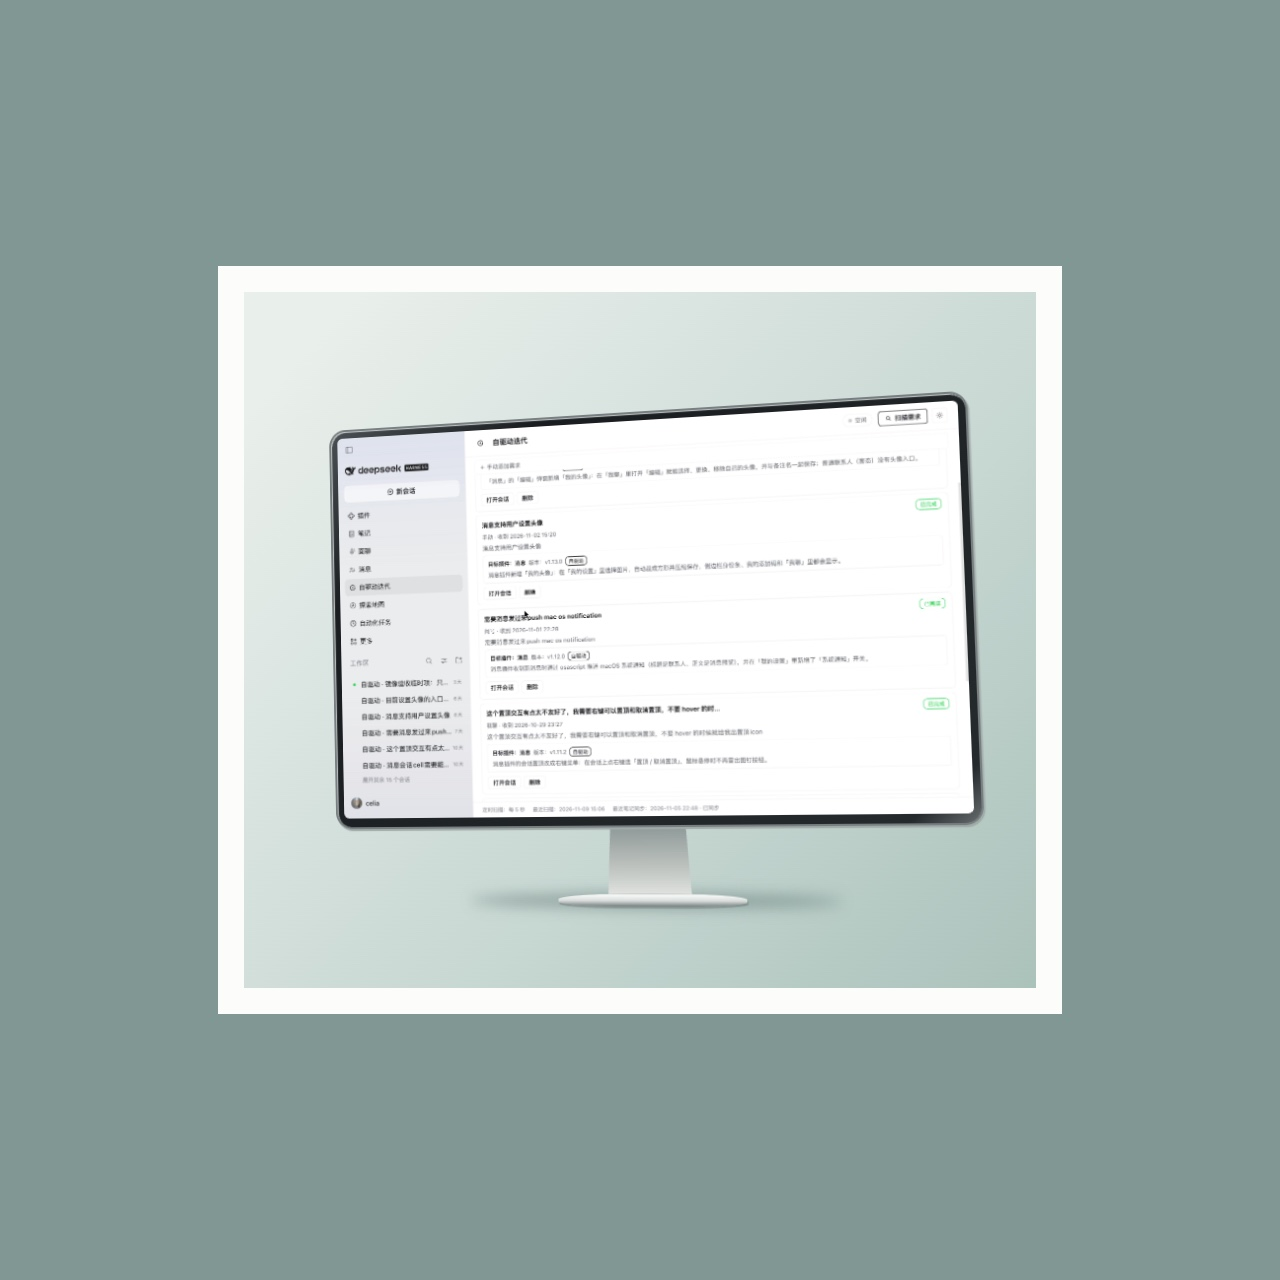
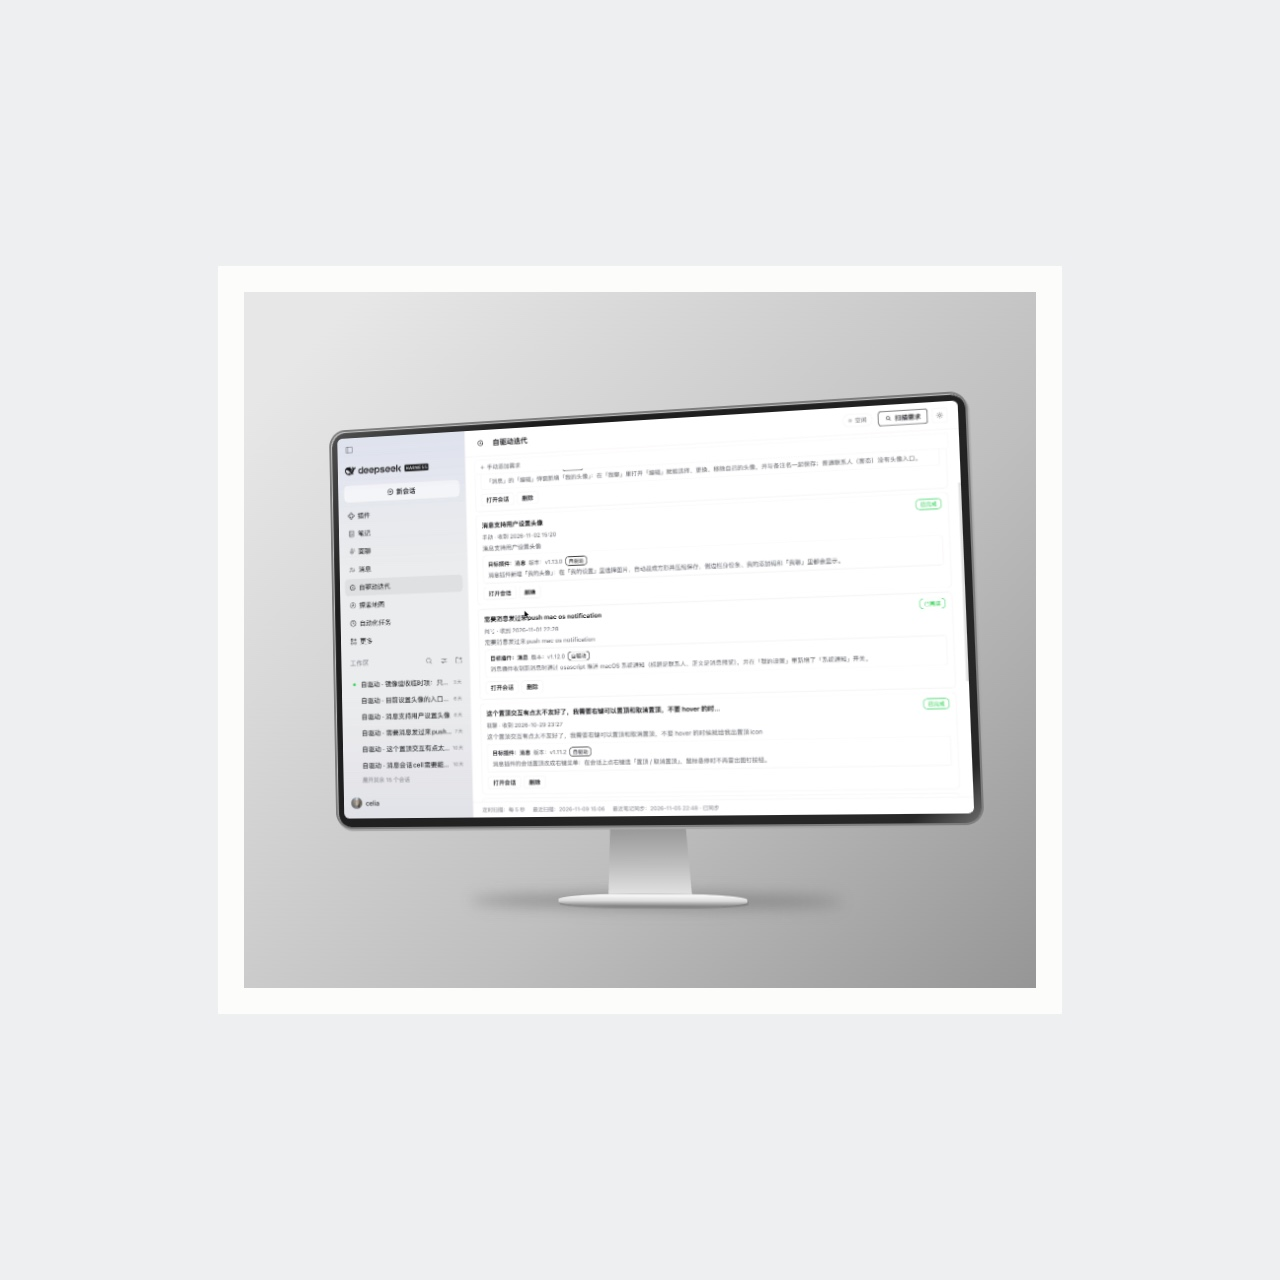
style(works): unify workbench imagery and accents in gray

diff --git a/layouts/partials/accent-color-style.html b/layouts/partials/accent-color-style.html
@@ -5,8 +5,16 @@
   }
   /* Problem Space 区块背景色 */
   .site-work-detail-page {
-    background-color: var(--accent-color) !important;
+    background-color: {{ with .Params.accent_surface_color }}{{ . | safeCSS }}{{ else }}var(--accent-color){{ end }} !important;
   }
+  {{ with .Params.accent_surface_color }}
+  .site-work-detail-page-header h3 {
+    color: var(--accent-color);
+  }
+  .site-work-detail-page-header h3::after {
+    background-color: var(--accent-color);
+  }
+  {{ end }}
   /* Problem Space 区块内的正文与链接：文字直接落在 accent 底色上，
      需要按底色重新算，不能沿用页面默认的 $text-color。
      accent 取 20% 混纯黑是能让所有在用 accent 都过 WCAG AA 的最高比例

diff --git a/layouts/ux-web3/self-evolving-ai-workbench.html b/layouts/ux-web3/self-evolving-ai-workbench.html
@@ -50,7 +50,7 @@
           <source src="/media/self-evolving-ai-workbench/demo.mp4" type="video/mp4">
           <track kind="captions" src="/media/self-evolving-ai-workbench/demo.en.vtt" srclang="en" label="English" default>
         </video>
-        <figcaption>Workbench walkthrough · 62 seconds · <a href="https://github.com/artstur/dsh-plugins/releases/tag/demo-video-2026-11-09">Original recording</a></figcaption>
+        <figcaption class="site-work-header-project-desc">Workbench walkthrough · 62 seconds · <a href="https://github.com/artstur/dsh-plugins/releases/tag/demo-video-2026-11-09">Original recording</a></figcaption>
       </figure>
     </div>
   </div>

diff --git a/content/work/ux-web3/self-evolving-ai-workbench.md b/content/work/ux-web3/self-evolving-ai-workbench.md
@@ -3,7 +3,8 @@ title: "Self-Evolving AI Workbench | Celia Shuyue Li"
 description: "An independent design experiment with DeepSeek Harness. Twelve plugins bring notes, conversations and messages together so feedback can lead to a change in the workbench itself."
 type: 'ux-web3'
 layout: 'self-evolving-ai-workbench'
-accent_color: '#687b95'
+accent_color: '#424548'
+accent_surface_color: '#eeeff0'
 work_header_title: "Self-Evolving AI Workbench"
 work_header_desc_class: 'site-work-header-project-desc'
 work_header_desc_html: 'Independent project built with DeepSeek Harness · <a href="https://github.com/artstur/dsh-plugins">View on GitHub</a>'
